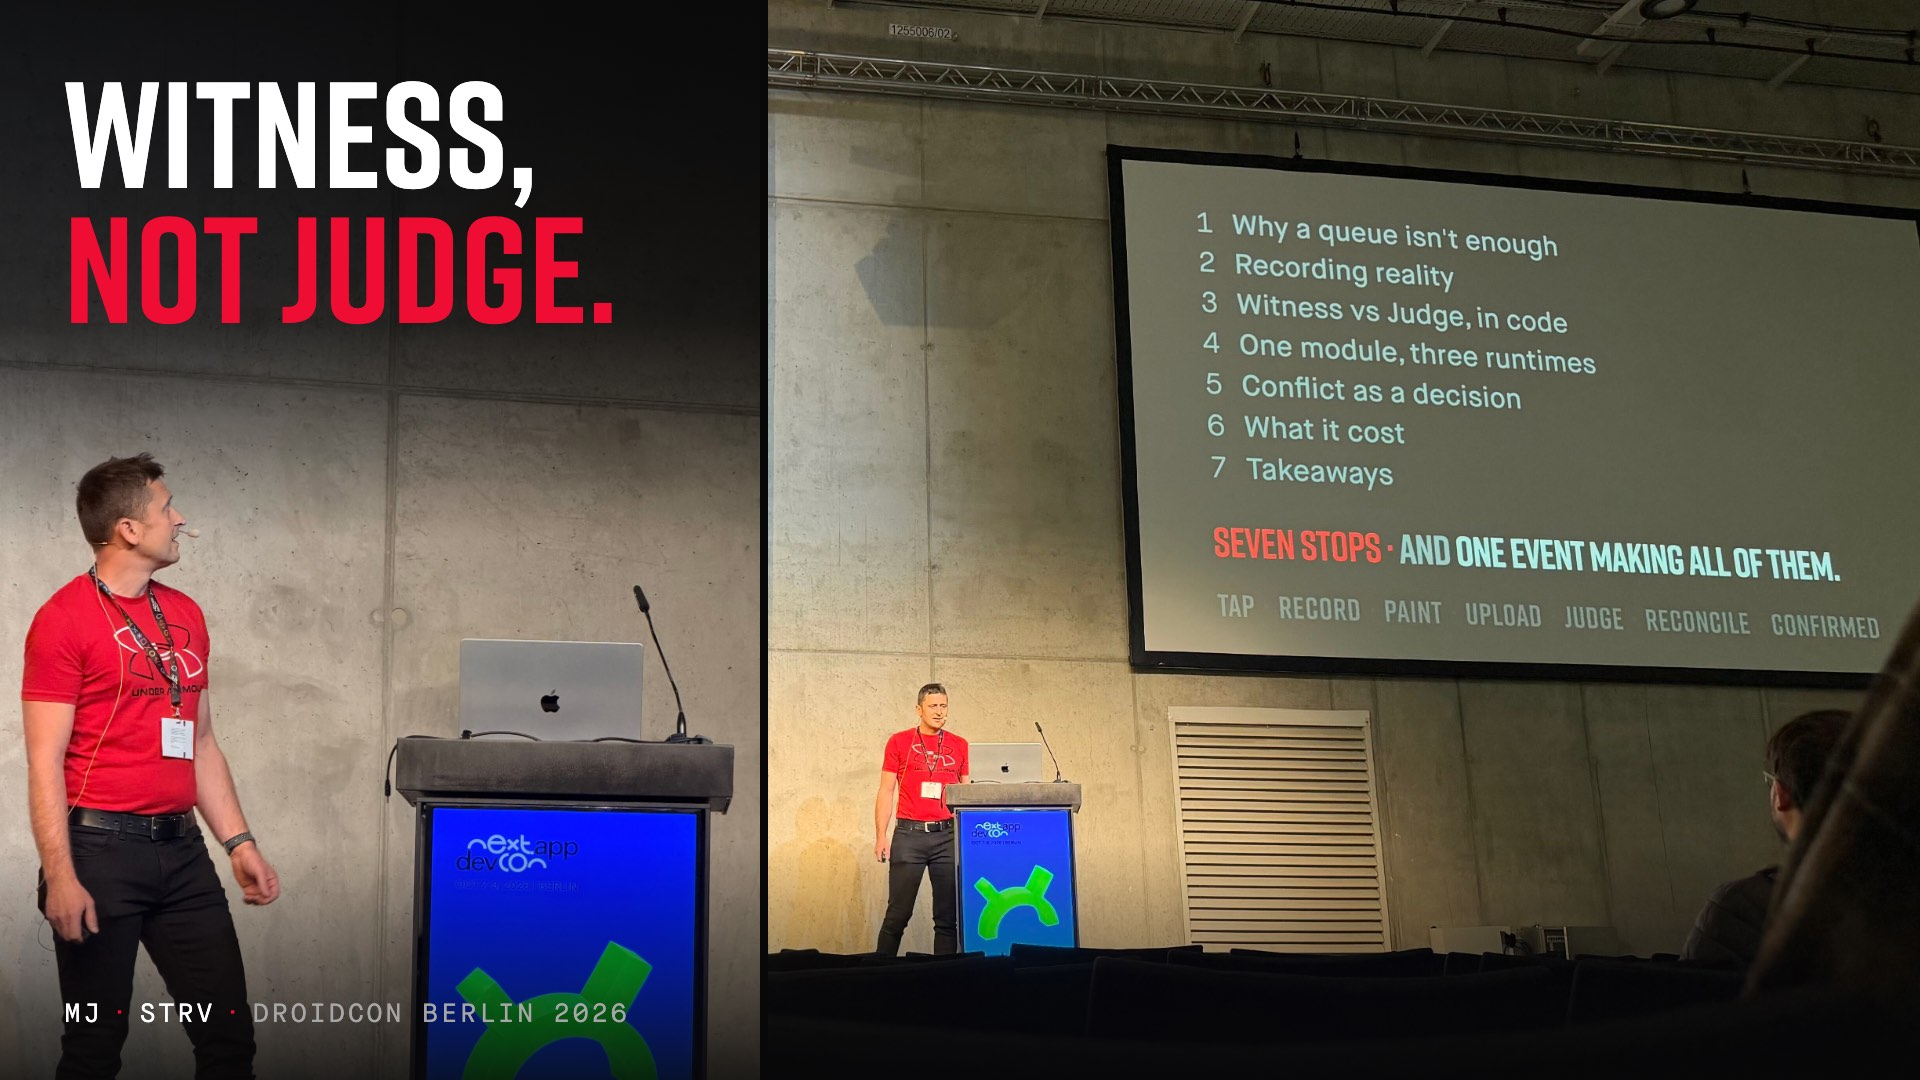
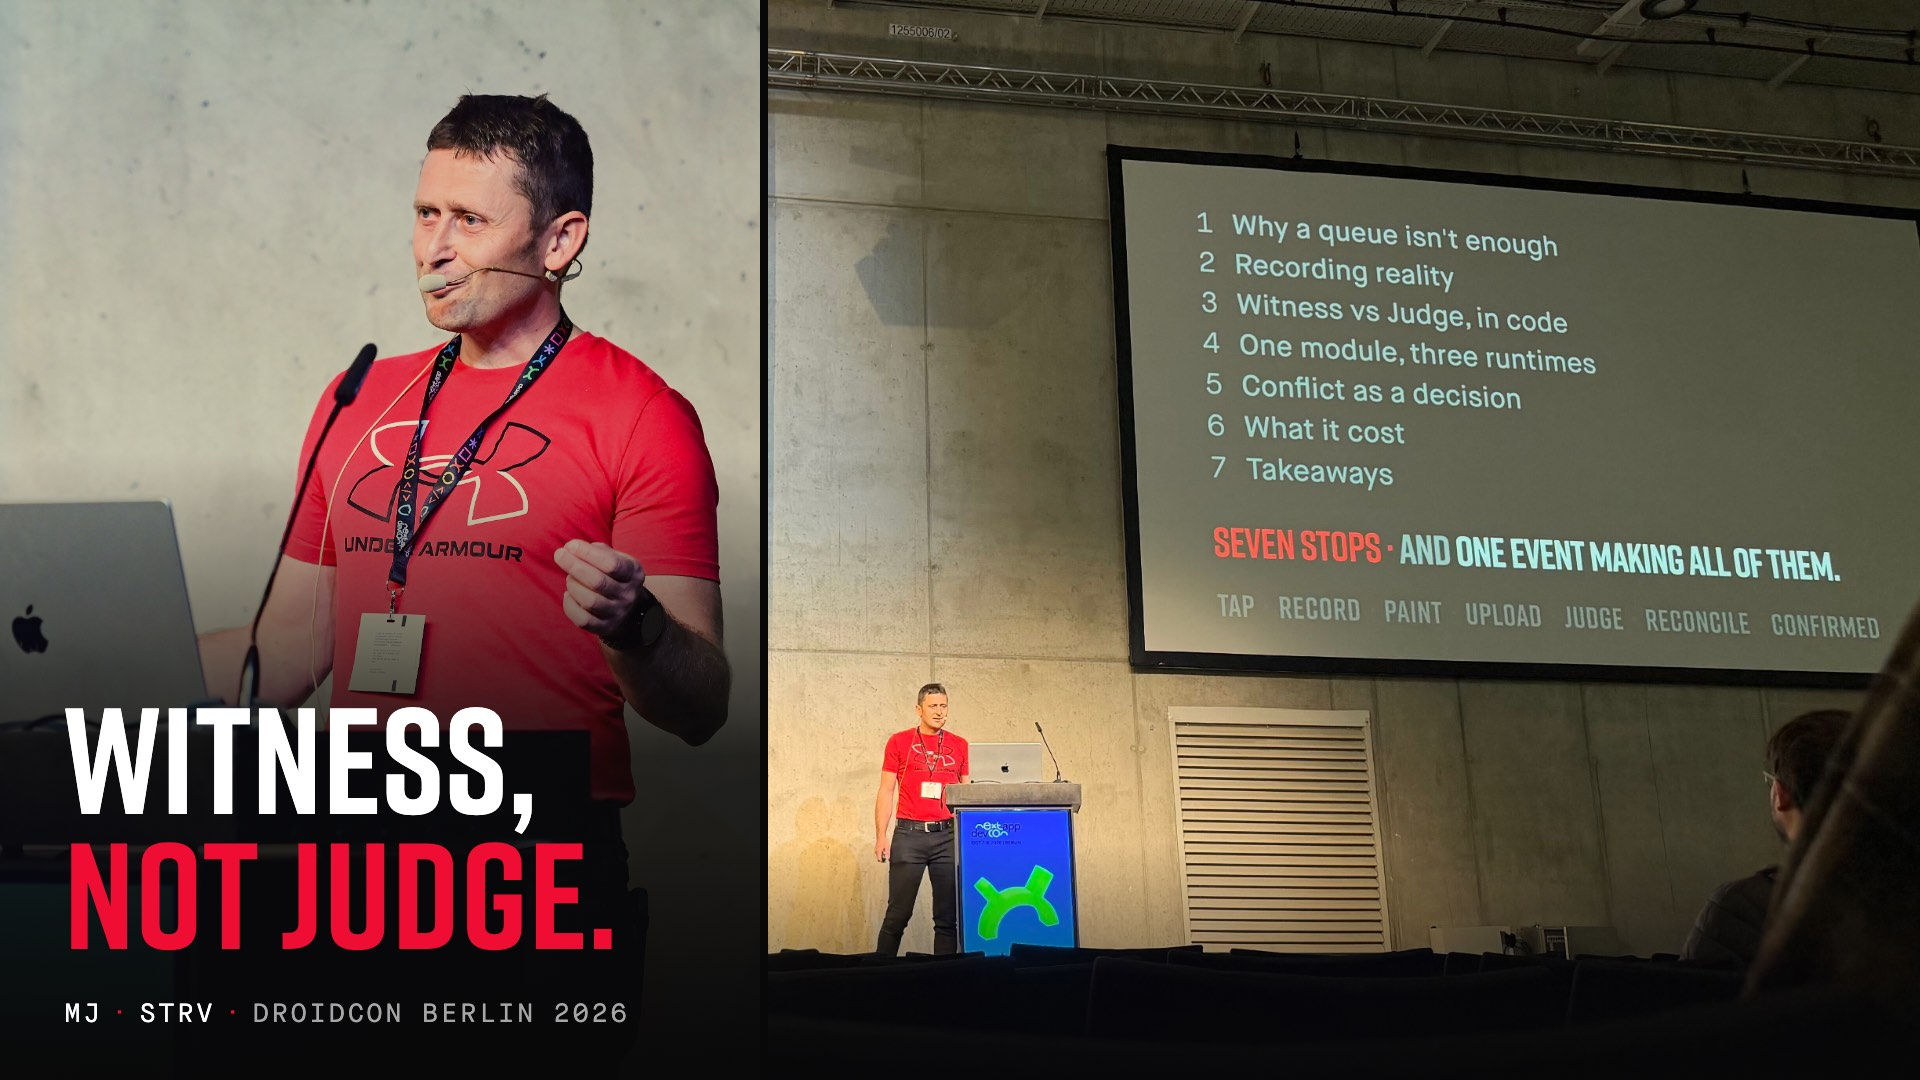
Use the professional stage photo in the Part 11 cover
Swap the left panel of the "Witness, Not Judge" cover for Volkmar Otto's
next.app devCon photo, warm-graded to match the stage shot beside it,
with the title over the podium. Credit the photographer under the talk
links in the post.

diff --git a/_posts/offline-first-witness-not-judge.md b/_posts/offline-first-witness-not-judge.md
@@ -42,6 +42,8 @@ And the slides, if you'd rather click through at your own pace. Click, tap or us
 
 <p class="slides-embed-links"><a href="/assets/blog/post/offline-first-witness-not-judge/deck/index.html" target="_blank" rel="noopener">Open the slides full page</a> · <a href="/assets/blog/post/offline-first-witness-not-judge/witness-not-judge-slides.pdf" target="_blank" rel="noopener">Download as PDF</a></p>
 
+<p class="slides-embed-links">Cover photo (left): Volkmar Otto / <a href="https://www.flickr.com/photos/194372122@N07/55586737831/" target="_blank" rel="noopener noreferrer">next.app devCon Berlin 2026</a></p>
+
 ## The Queue That Quietly Loses
 
 A queue-and-replay client stores *mutations*. Here is how that loses data:
